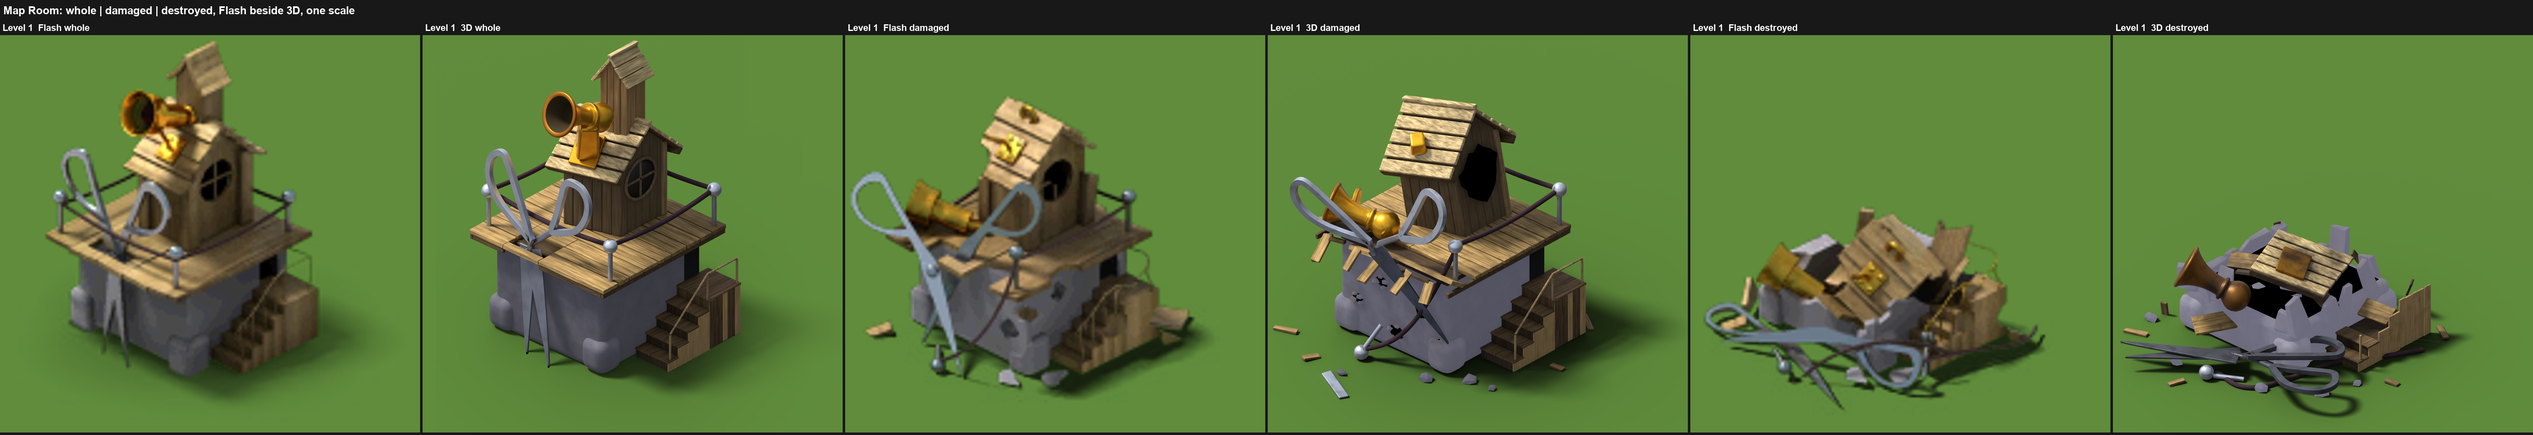
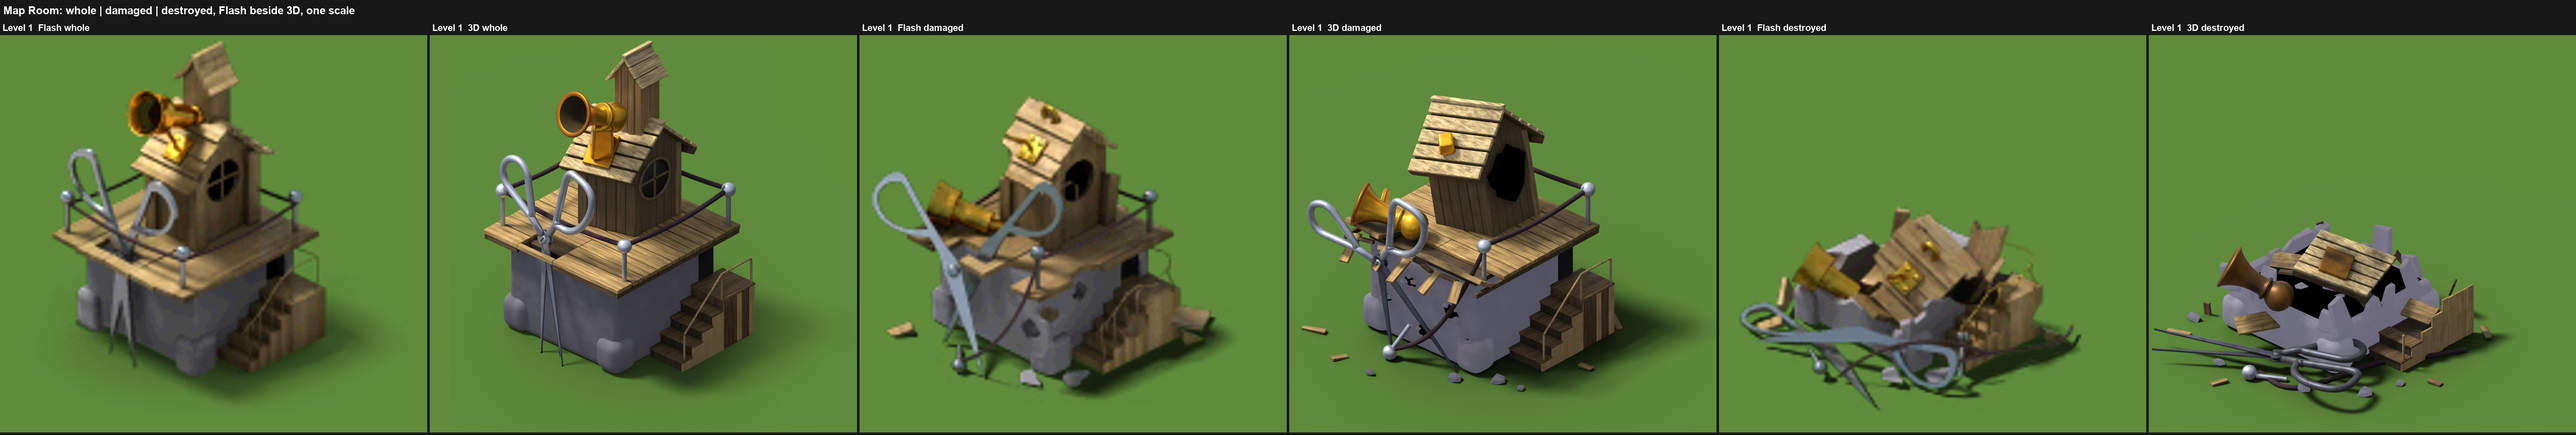
Map Room 3D: damaged and destroyed scissors use the new pair
Damaged: the pair stays whole (both blades, pivot screw), opened wider, leaning left with
its pivot dropped to Flash's place in front of the broken deck edge; the snapped blade on
the ground is gone. Destroyed: the pivot screw and edge line move with the halves.
States sheet rebuilt.

Claude-Session: https://claude.ai/code/session_01YTHpn2B3GQv2nWyfBMAwkm

diff --git a/art-samples/buildings-b6/maproom-v1/damage/mapdmg.py b/art-samples/buildings-b6/maproom-v1/damage/mapdmg.py
@@ -175,28 +175,22 @@ def damaged():
     for o in scope:
         o.matrix_world = m @ o.matrix_world
     print("PROBE scope eye", tuple(round(c, 2) for c in e1), "screen", scr(e1))
-    # the scissors knocked over: the teardrop's half swung out past the deck's left edge, its blade snapped off
+    # the scissors knocked over to the left, still in one piece (Flash keeps both blades and the pivot): opened wider,
+    # the pair leaning left, its pivot dropped to Flash's (-42, 22) in front of the deck's broken front edge
     sp = G["SP"]
-    kill(named(r"scisblade1"))
-    half = named(r"scisloop0|scisshank0|scisblade0")
-    screen_turn(half, sp, 30)
-    # then slid toward the camera (the picture does not move) until the blade's tip rests on the stone's front face
-    bpy.context.view_layer.update()
-    bl = named(r"scisblade0")[0]
-    tip = max((bl.matrix_world @ v.co for v in bl.data.vertices), key=lambda v: scr(v)[1])
-    nf = YAW_M.to_3x3() @ Vector((0, -1, 0))
-    v = -cam_fwd()
-    t = ((world((0, -A - 0.04, 0)) - tip).dot(nf)) / v.dot(nf)
-    turn(half, sp, (0, 0, 1), 0, move=tuple(v * t))
-    screen_turn(named(r"scisloop1|scisshank1"), sp, -12)
-    # a darker, bluer steel than the stone behind it (Flash's fallen blade reads clearly against the pale wall)
-    bl.data.materials.clear()
-    bl.data.materials.append(shiny("bladedark", (104, 112, 134), rough=0.38, metal=0.8, wear=(70, 74, 90), scale=3.0,
-                                   dirt=0.3))
-    blade = G["ST"][1]
-    # the snapped blade lies on the ground in front, left
-    g = px(-52.0, 66.0, Z=0.06)
-    along("scisbroken", g, g + Vector((1.9, -0.9, 0.0)), (0, 0.42, 0.08), M["steel"], roll=4)
+    pair = named(r"scis.*")
+    n = (G["ST"][0] - sp).cross(G["ST"][1] - sp).normalized()
+    if n.dot(-cam_fwd()) < 0:
+        n = -n
+    turn(named(r"scisloop1|scisshank1|scisblade1"), sp, n, -10)
+    turn(named(r"scisloop0|scisshank0|scisblade0|scisedge0"), sp, n, 14)
+    screen_turn(pair, sp, 18)
+    turn(pair, sp, (0, 0, 1), 0, move=tuple(px(-42.0, 22.0, Y=-3.95) - sp))
+    # darker, bluer blades than the stone behind them (Flash's fallen blades read clearly against the pale wall)
+    dark = shiny("bladedark", (104, 112, 134), rough=0.38, metal=0.8, wear=(70, 74, 90), scale=3.0, dirt=0.3)
+    for bl in named(r"scisblade[01]"):
+        bl.data.materials.clear()
+        bl.data.materials.append(dark)
     # the left post knocked off the deck: lying against the stone with its ball on the ground; its ropes hang
     kill(named(r"post3|ball3|rope2|rope3"))
     b3 = px(-38.0, 58.0, Z=S.BALL_R)
@@ -323,7 +317,7 @@ def destroyed():
         o.data.materials.clear()
         o.data.materials.append(sooty)
     n = (G["ST"][0] - sp).cross(G["ST"][1] - sp).normalized()
-    turn(named(r"scisloop0|scisshank0|scisblade0"), sp, n, -30)       # opened wide, in their own plane
+    turn(named(r"scisloop0|scisshank0|scisblade0|scisedge0"), sp, n, -30)       # opened wide, in their own plane
     turn(sc, sp, n.cross(up), math.degrees(n.angle(up)))
     bpy.context.view_layer.update()
     loops = [o for o in sc if o.name.startswith("scisloop")]
